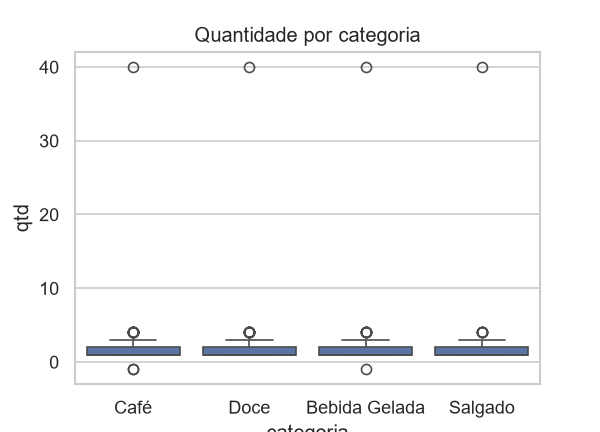
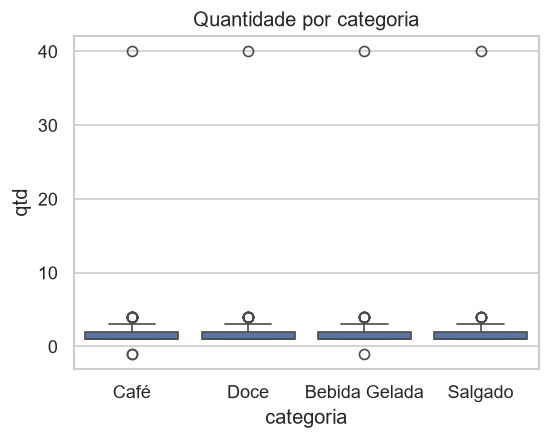
RELATÓRIO DE EDA

Changed region(s): [[0.0, 0.0301, 0.9891, 1.0], [0.0618, 0.8125, 0.0927, 0.8426]]

diff --git a/eda_cafeteria.py b/eda_cafeteria.py
@@ -1,0 +1,157 @@
+from pathlib import Path
+
+import matplotlib.pyplot as plt
+import pandas as pd
+import seaborn as sns
+
+# ==================================================
+# CONFIGURAÇÃO
+# ==================================================
+
+BASE = Path(__file__).parent if "__file__" in globals() else Path.cwd()
+
+pedidos = pd.read_csv(BASE / "pedidos.csv")
+produtos = pd.read_csv(BASE / "produtos.csv")
+
+df = pedidos.merge(produtos, on="id_produto", how="left")
+
+df["data"] = pd.to_datetime(df["data"])
+
+nomes = ["seg", "ter", "qua", "qui", "sex", "sab", "dom"]
+
+df["dia"] = df["data"].dt.dayofweek.map(dict(enumerate(nomes)))
+
+unicos = df.drop_duplicates()
+
+bom = df[df["tempo_entrega_min"] < 120]
+
+pasta = BASE / "graficos"
+pasta.mkdir(exist_ok=True)
+
+sns.set_theme(style="whitegrid")
+
+# ==================================================
+# HISTOGRAMA COM EXTREMOS
+# ==================================================
+
+plt.figure(figsize=(5, 3.6))
+
+sns.histplot(
+    df["tempo_entrega_min"].dropna(),
+    bins=20
+)
+
+plt.title("Tempo de entrega (com extremos)")
+
+plt.savefig(
+    pasta / "tempo_com_extremos.png",
+    dpi=120,
+    bbox_inches="tight"
+)
+
+plt.close()
+
+# ==================================================
+# HISTOGRAMA SEM EXTREMOS
+# ==================================================
+
+plt.figure(figsize=(5, 3.6))
+
+sns.histplot(
+    bom["tempo_entrega_min"].dropna(),
+    bins=15
+)
+
+plt.title("Tempo de entrega (abaixo de 120 min)")
+
+plt.savefig(
+    pasta / "tempo_sem_extremos.png",
+    dpi=120,
+    bbox_inches="tight"
+)
+
+plt.close()
+
+# ==================================================
+# BOXPLOT
+# ==================================================
+
+plt.figure(figsize=(5, 3.6))
+
+sns.boxplot(
+    data=df,
+    x="categoria",
+    y="qtd"
+)
+
+plt.title("Quantidade por categoria")
+
+plt.savefig(
+    pasta / "boxplot_qtd.png",
+    dpi=120,
+    bbox_inches="tight"
+)
+
+plt.close()
+
+# ==================================================
+# COUNTPLOT
+# ==================================================
+
+plt.figure(figsize=(5, 3.6))
+
+sns.countplot(
+    data=unicos,
+    x="dia",
+    order=nomes
+)
+
+plt.title("Pedidos por dia da semana")
+
+plt.savefig(
+    pasta / "pedidos_por_dia.png",
+    dpi=120,
+    bbox_inches="tight"
+)
+
+plt.close()
+
+# ==================================================
+# RELATÓRIO
+# ==================================================
+
+duplicados = df.duplicated().sum()
+faltantes_tempo = df["tempo_entrega_min"].isna().sum()
+faltantes_avaliacao = df["avaliacao"].isna().sum()
+
+relatorio = f"""
+# Relatório EDA - Cafeteria
+
+## Tabela de Problemas
+
+| Problema | Quantidade | Decisão |
+|-----------|-----------:|----------|
+| Registros duplicados | {duplicados} | Remover antes das análises finais |
+| Valores ausentes em tempo_entrega_min | {faltantes_tempo} | Avaliar preenchimento ou remoção |
+| Valores ausentes em avaliacao | {faltantes_avaliacao} | Não utilizar para métricas sem tratamento |
+
+## Achados do Negócio
+
+1. A maior parte das entregas está concentrada abaixo de 120 minutos.
+
+2. Existem pedidos com quantidades acima do padrão observado.
+
+3. Há diferença de volume de pedidos entre os dias da semana, sugerindo ajuste operacional.
+"""
+
+with open(BASE / "RELATORIO_EDA.md", "w", encoding="utf-8") as arquivo:
+    arquivo.write(relatorio)
+
+print("\n✅ Processo concluído com sucesso!\n")
+
+print("Arquivos gerados:")
+
+for arquivo in sorted(pasta.glob("*.png")):
+    print(" -", arquivo.name)
+
+print(" - RELATORIO_EDA.md")

diff --git a/RELATORIO_EDA.md b/RELATORIO_EDA.md
@@ -1,0 +1,18 @@
+
+# Relatório EDA - Cafeteria
+
+## Tabela de Problemas
+
+| Problema | Quantidade | Decisão |
+|-----------|-----------:|----------|
+| Registros duplicados | 12 | Remover antes das análises finais |
+| Valores ausentes em tempo_entrega_min | 568 | Avaliar preenchimento ou remoção |
+| Valores ausentes em avaliacao | 116 | Não utilizar para métricas sem tratamento |
+
+## Achados do Negócio
+
+1. A maior parte das entregas está concentrada abaixo de 120 minutos.
+
+2. Existem pedidos com quantidades acima do padrão observado.
+
+3. Há diferença de volume de pedidos entre os dias da semana, sugerindo ajuste operacional.
